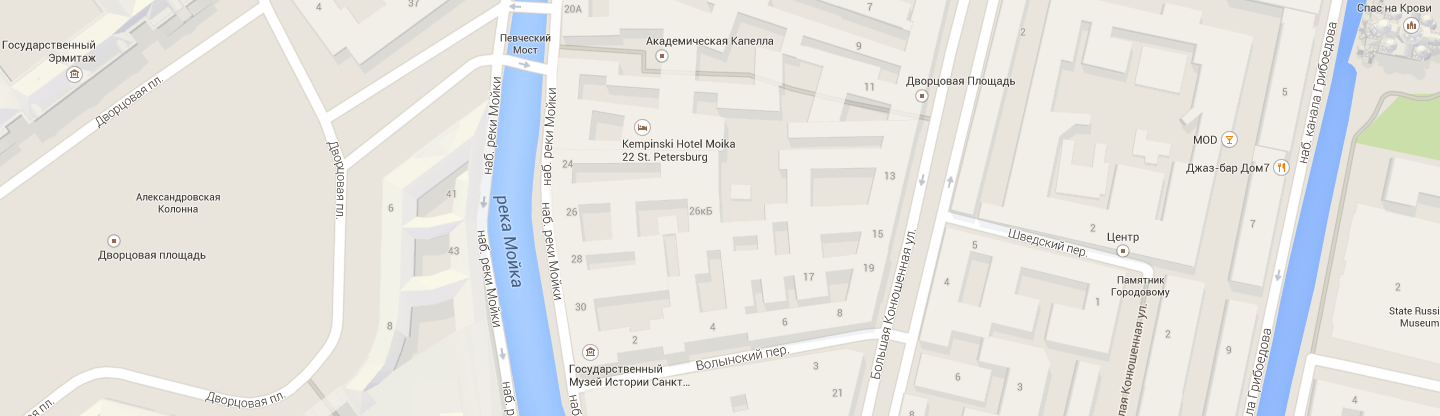
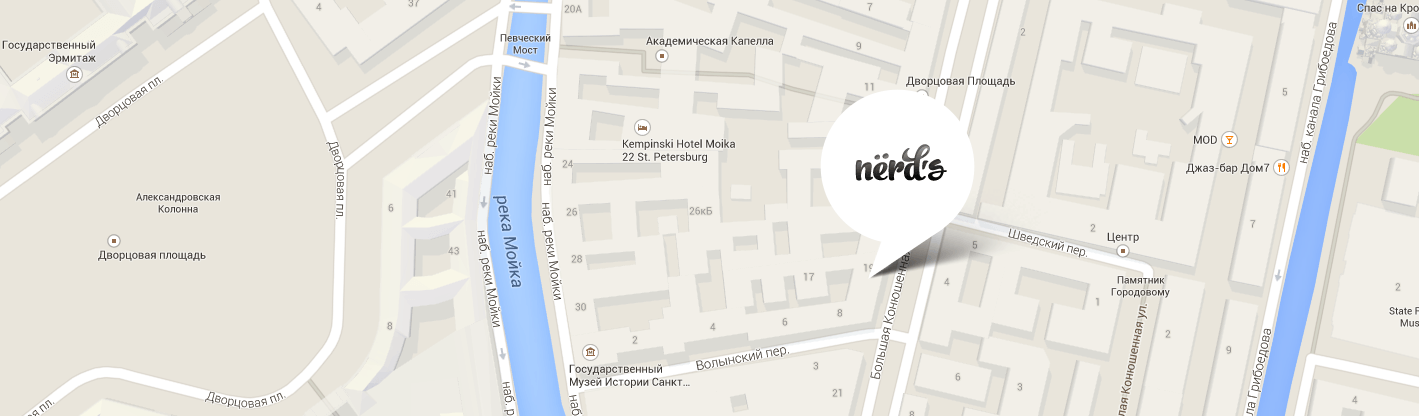
5-коммит
Добавил карту в виде фоновой картинки

diff --git a/css/style.css b/css/style.css
@@ -370,7 +370,6 @@ body {
 
 .logos {
 	background-color: white;
-	margin-bottom: 75px;
 }
 
 .logos .container{
@@ -432,3 +431,9 @@ body {
 	box-shadow: 300px 0 #eee, 600px 0 #eee;
 }
 
+.map {
+	height: 416px;
+	margin-top: 75px;
+	background: white url("../img/map.png");
+	background-size: cover;
+}

diff --git a/index.html b/index.html
@@ -118,6 +118,9 @@
 				</a>
 			</div>
 		</div>
+		<div class="map">
+			
+		</div>
 	</div>
 </body>
 </html>
